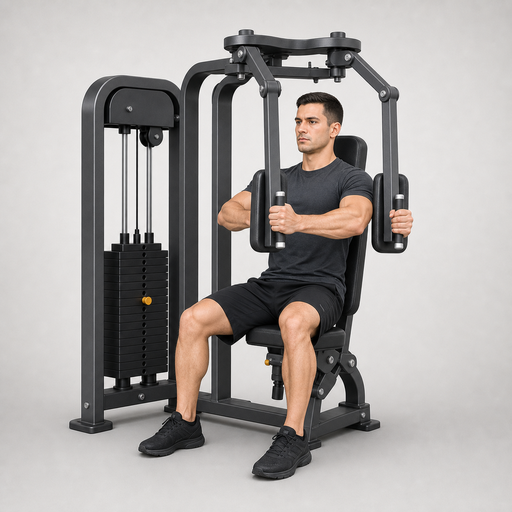
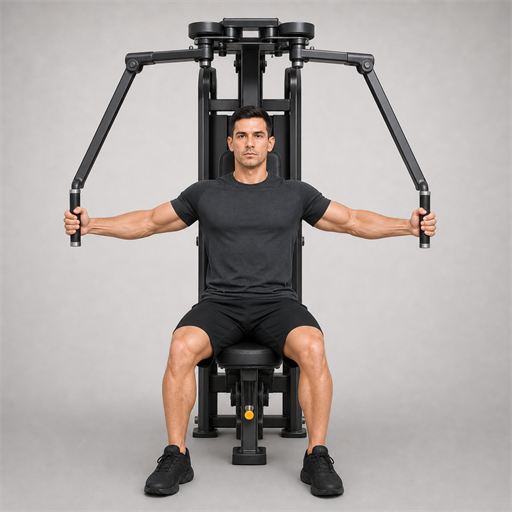
Replace pec deck machine image

diff --git a/PROJECT_STATUS.md b/PROJECT_STATUS.md
@@ -28,6 +28,16 @@ User-facing app text is centralized in `src/strings.ts`.
 
 ## Last Completed Step
 
+Replaced the pec deck machine image.
+
+Details:
+
+- Replaced `assets/machines/pec-deck.png` with the approved corrected image.
+- The image now shows a front-facing butterfly / pec deck machine in the open wide-arm position, matching the provided reference direction.
+- Resized the generated source image to the existing 512x512 PNG asset format.
+
+Previous step:
+
 Replaced the lateral raise machine image.
 
 Details: